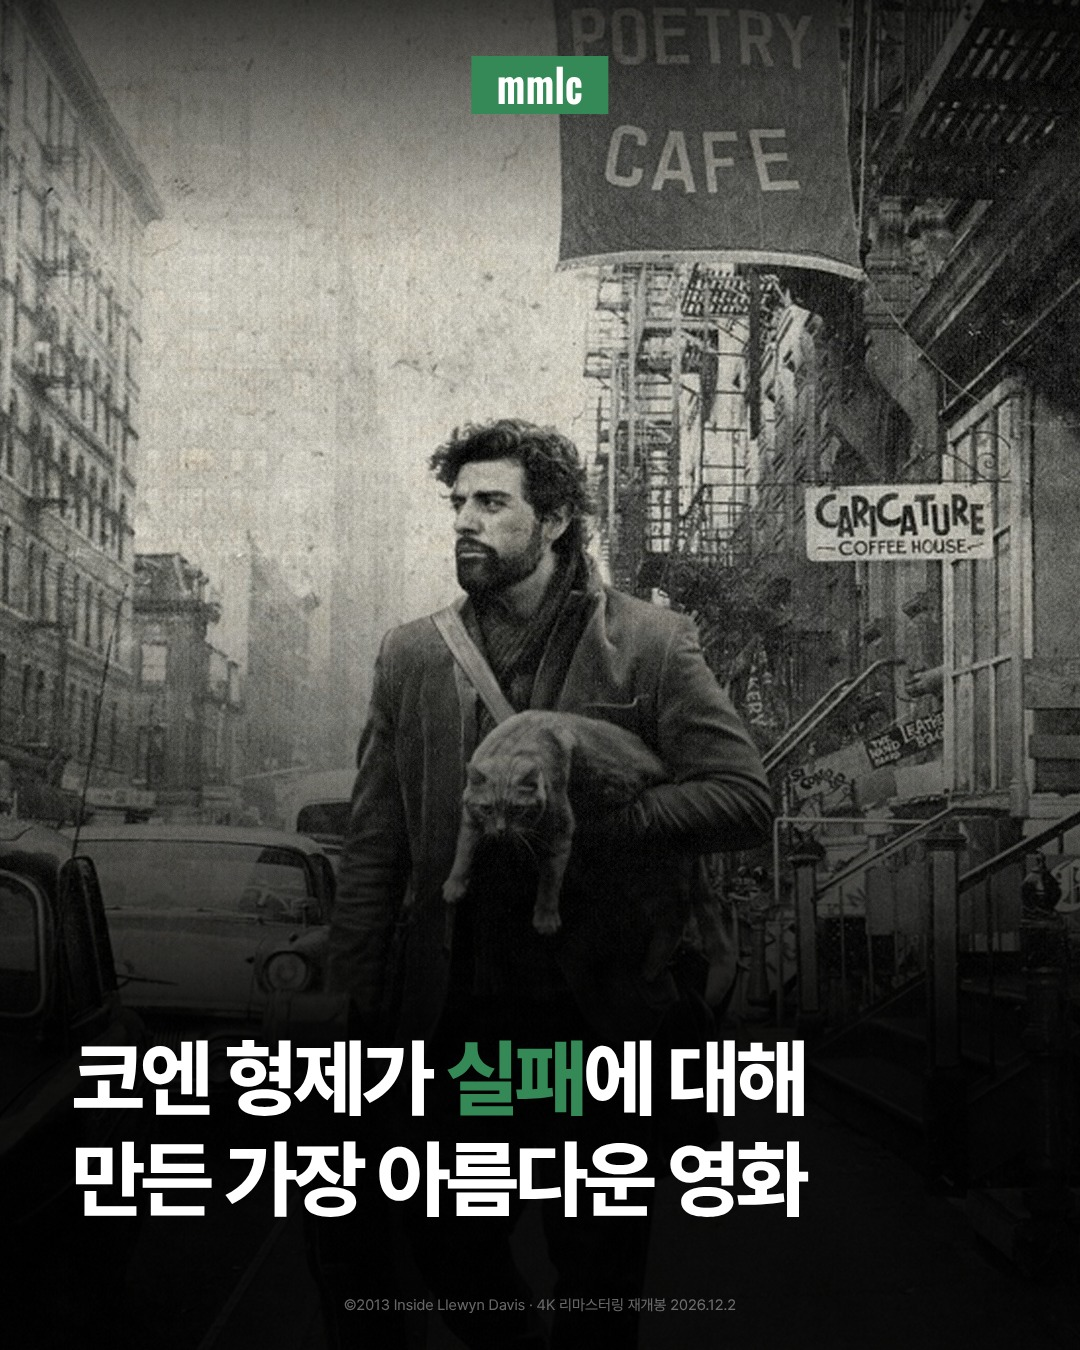
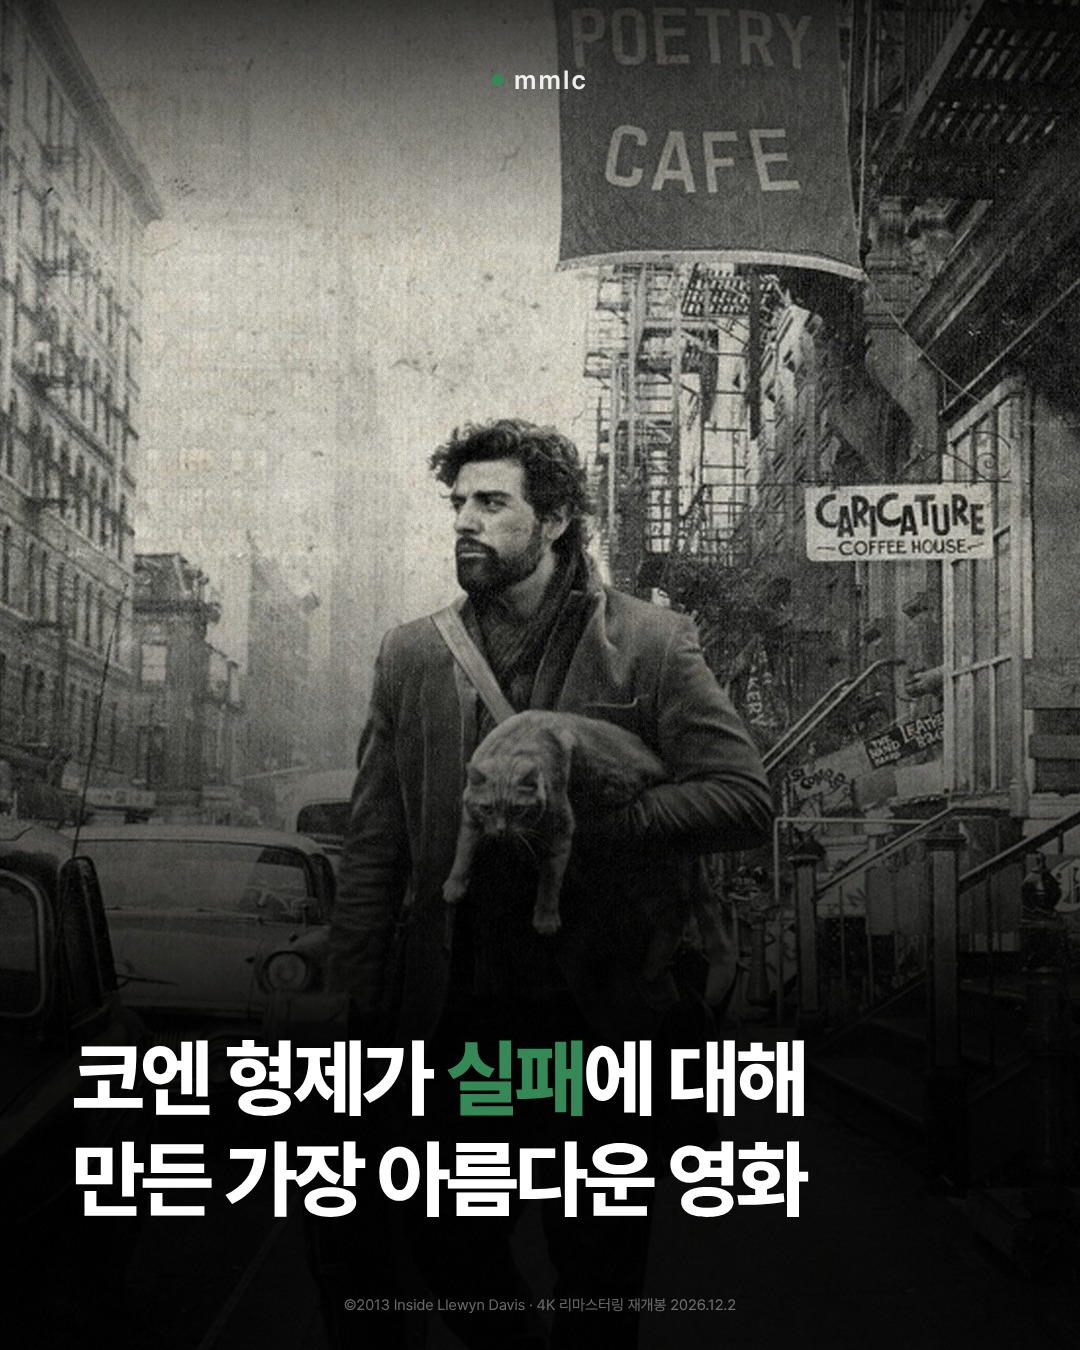
인사이드 르윈: 표지 로고를 본문과 같은 점+mmlc로 통일
Claude-Session: https://claude.ai/code/session_01VEGji1Wx9t8xn4NvfBmGPJ

Changed region(s): [[0.4278, 0.0311, 0.5806, 0.0933]]

diff --git a/templates/story-article/llewyn/render.py b/templates/story-article/llewyn/render.py
@@ -6,7 +6,6 @@ from playwright.sync_api import sync_playwright
 from PIL import Image, ImageFilter, ImageEnhance
 import numpy as np
 W,H=1080,1350; G=mc.GREEN
-OSW='data:font/woff2;base64,'+base64.b64encode(open(os.path.join(HERE,'../../../tools/fonts/Oswald-Bold.woff2'),'rb').read()).decode()
 def fit(im,w,h,fx=0.5,fy=0.5):
     s=max(w/im.width,h/im.height); im=im.resize((int(im.width*s)+1,int(im.height*s)+1),Image.LANCZOS)
     x=int((im.width-w)*fx); y=int((im.height-h)*fy); return im.crop((x,y,x+w,y+h))
@@ -36,14 +35,10 @@ CSS=f"""{mc.FONTS}*{{margin:0;padding:0;box-sizing:border-box}}body{{width:1080p
 .h1{{position:absolute;z-index:6;left:72px;right:60px;bottom:120px;font-size:84px;font-weight:800;line-height:1.2;letter-spacing:-0.045em;word-break:keep-all}}
 .h1 em{{font-style:normal;color:{G}}}
 .pic{{position:absolute;background-size:cover;background-position:center}}
-@font-face{{font-family:'Oswald';src:url({OSW}) format('woff2');font-weight:700}}
-.blogo{{position:absolute;z-index:9;top:56px;left:50%;transform:translateX(-50%);background:{G};padding:4px 16px 8px;line-height:1}}
-.blogo span{{display:inline-block;font-family:'Oswald';font-weight:700;font-size:46px;color:#fff;letter-spacing:.01em;transform:scaleX(.82);transform-origin:center}}
 """
 TOP='<div class="top"><span class="rec"></span><span class="logo">mmlc</span></div>'
-BLOGO='<div class="blogo"><span>mmlc</span></div>'
 CR='<div class="cr">©2013 Inside Llewyn Davis · 4K 리마스터링 재개봉 2026.12.2</div>'
-def wrap(body,cover=False): return f'<html><head><meta charset="utf-8"><style>{CSS}</style></head><body><div class="card">{body}{BLOGO if cover else TOP}{CR}</div></body></html>'
+def wrap(body,cover=False): return f'<html><head><meta charset="utf-8"><style>{CSS}</style></head><body><div class="card">{body}{TOP}{CR}</div></body></html>'
 P=[]
 # 1 cover
 _pm=Image.open('post_main.jpg').convert('RGB'); _pm=_pm.crop((int(_pm.width*0.305),int(_pm.height*0.325),int(_pm.width*0.72),int(_pm.height*0.685)))

diff --git a/templates/story-article/llewyn/HANDOFF.md b/templates/story-article/llewyn/HANDOFF.md
@@ -30,6 +30,6 @@
 - [ ] 피드 글 — 초안 작성됨(11/10), Kyo 확인 대기 — 계정 규칙: 온점·쉼표마다 줄바꿈, 팔로워 전용·비공개 계정 제외 문구 포함, 이모지 적당히
 
 ## 11/10 수정 (Kyo 승인)
-- 1장: 포스터 손글씨가 잘려 보이던 것 제거(안쪽 사진만 크롭), 로고를 표지용 박스 로고(초록 박스 + 흰 mmlc, Oswald Bold 가로 82%)로 교체 — 폰트 tools/fonts/Oswald-Bold.woff2
+- 1장: 포스터 손글씨가 잘려 보이던 것 제거(안쪽 사진만 크롭), 로고를 표지 로고는 본문과 같은 초록 점 + mmlc로 통일 (Kyo 지시)
 - 6장: 포스터를 110px 내려 mmlc 로고와 제목 겹침 해소(위쪽은 포스터 배경색 띠로 채움)
 - 4장 맞춤법, 8장 기간 확정
